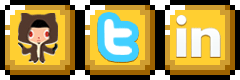
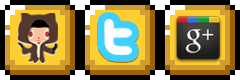
Add Google Plus

Changed region(s): [[0.7292, 0.175, 0.9333, 0.775], [0.1167, 0.4, 0.1458, 0.425]]

diff --git a/public_html/index.html b/public_html/index.html
@@ -9,7 +9,8 @@
       <div id="content">
         <ul id="links">
           <li><a id="github" href="http://github.com/1337807"><img src="images/coin.gif" alt="CHACHING! Magic!" /><span class="screen">1337807's Github!</span></a></li>
-            <li><a id="twitter" href="http://twitter.com/1337807"><img src="images/coin.gif" alt="CHACHING! Magic!" /><span class="screen">1337807's Twitter!</span></a></li>
+          <li><a id="twitter" href="http://twitter.com/1337807"><img src="images/coin.gif" alt="CHACHING! Magic!" /><span class="screen">1337807's Twitter!</span></a></li>
+          <li><a id="google" href="https://plus.google.com/106308229671181064881"><img src="images/coin.gif" alt="CHACHING! Magic!" /><span class="screen">1337807's Google Plus!</span></a></li>
         </ul>
       </div>
     </div>

diff --git a/public_html/stylesheets/default.css b/public_html/stylesheets/default.css
@@ -21,7 +21,7 @@ body {
 }
 ul#links {
   display:block;
-  width:220px;
+  width:330px;
   margin:0 auto;
   padding-top:553px;
 }
@@ -46,18 +46,30 @@ a#twitter {
   margin-top:5px;
   background:url('../images/da_bricks.png') no-repeat -80px bottom;
 }
+a#google {
+  display:block;
+  width:80px;
+  height:80px;
+  margin-top:5px;
+  background:url('../images/da_bricks.png') no-repeat -160px bottom;
+}
 a#github:hover {
   margin-top:0;
 }
 a#twitter:hover {
   margin-top:0;
 }
+a#google:hover {
+  margin-top:0;
+}
 a#github:active,
+a#google:active,
 a#twitter:active {
   margin-top:-75px;
   height:160px;
 }
 a#github:active img,
+a#google:active img,
 a#twitter:active img {
   display:block;
 }
